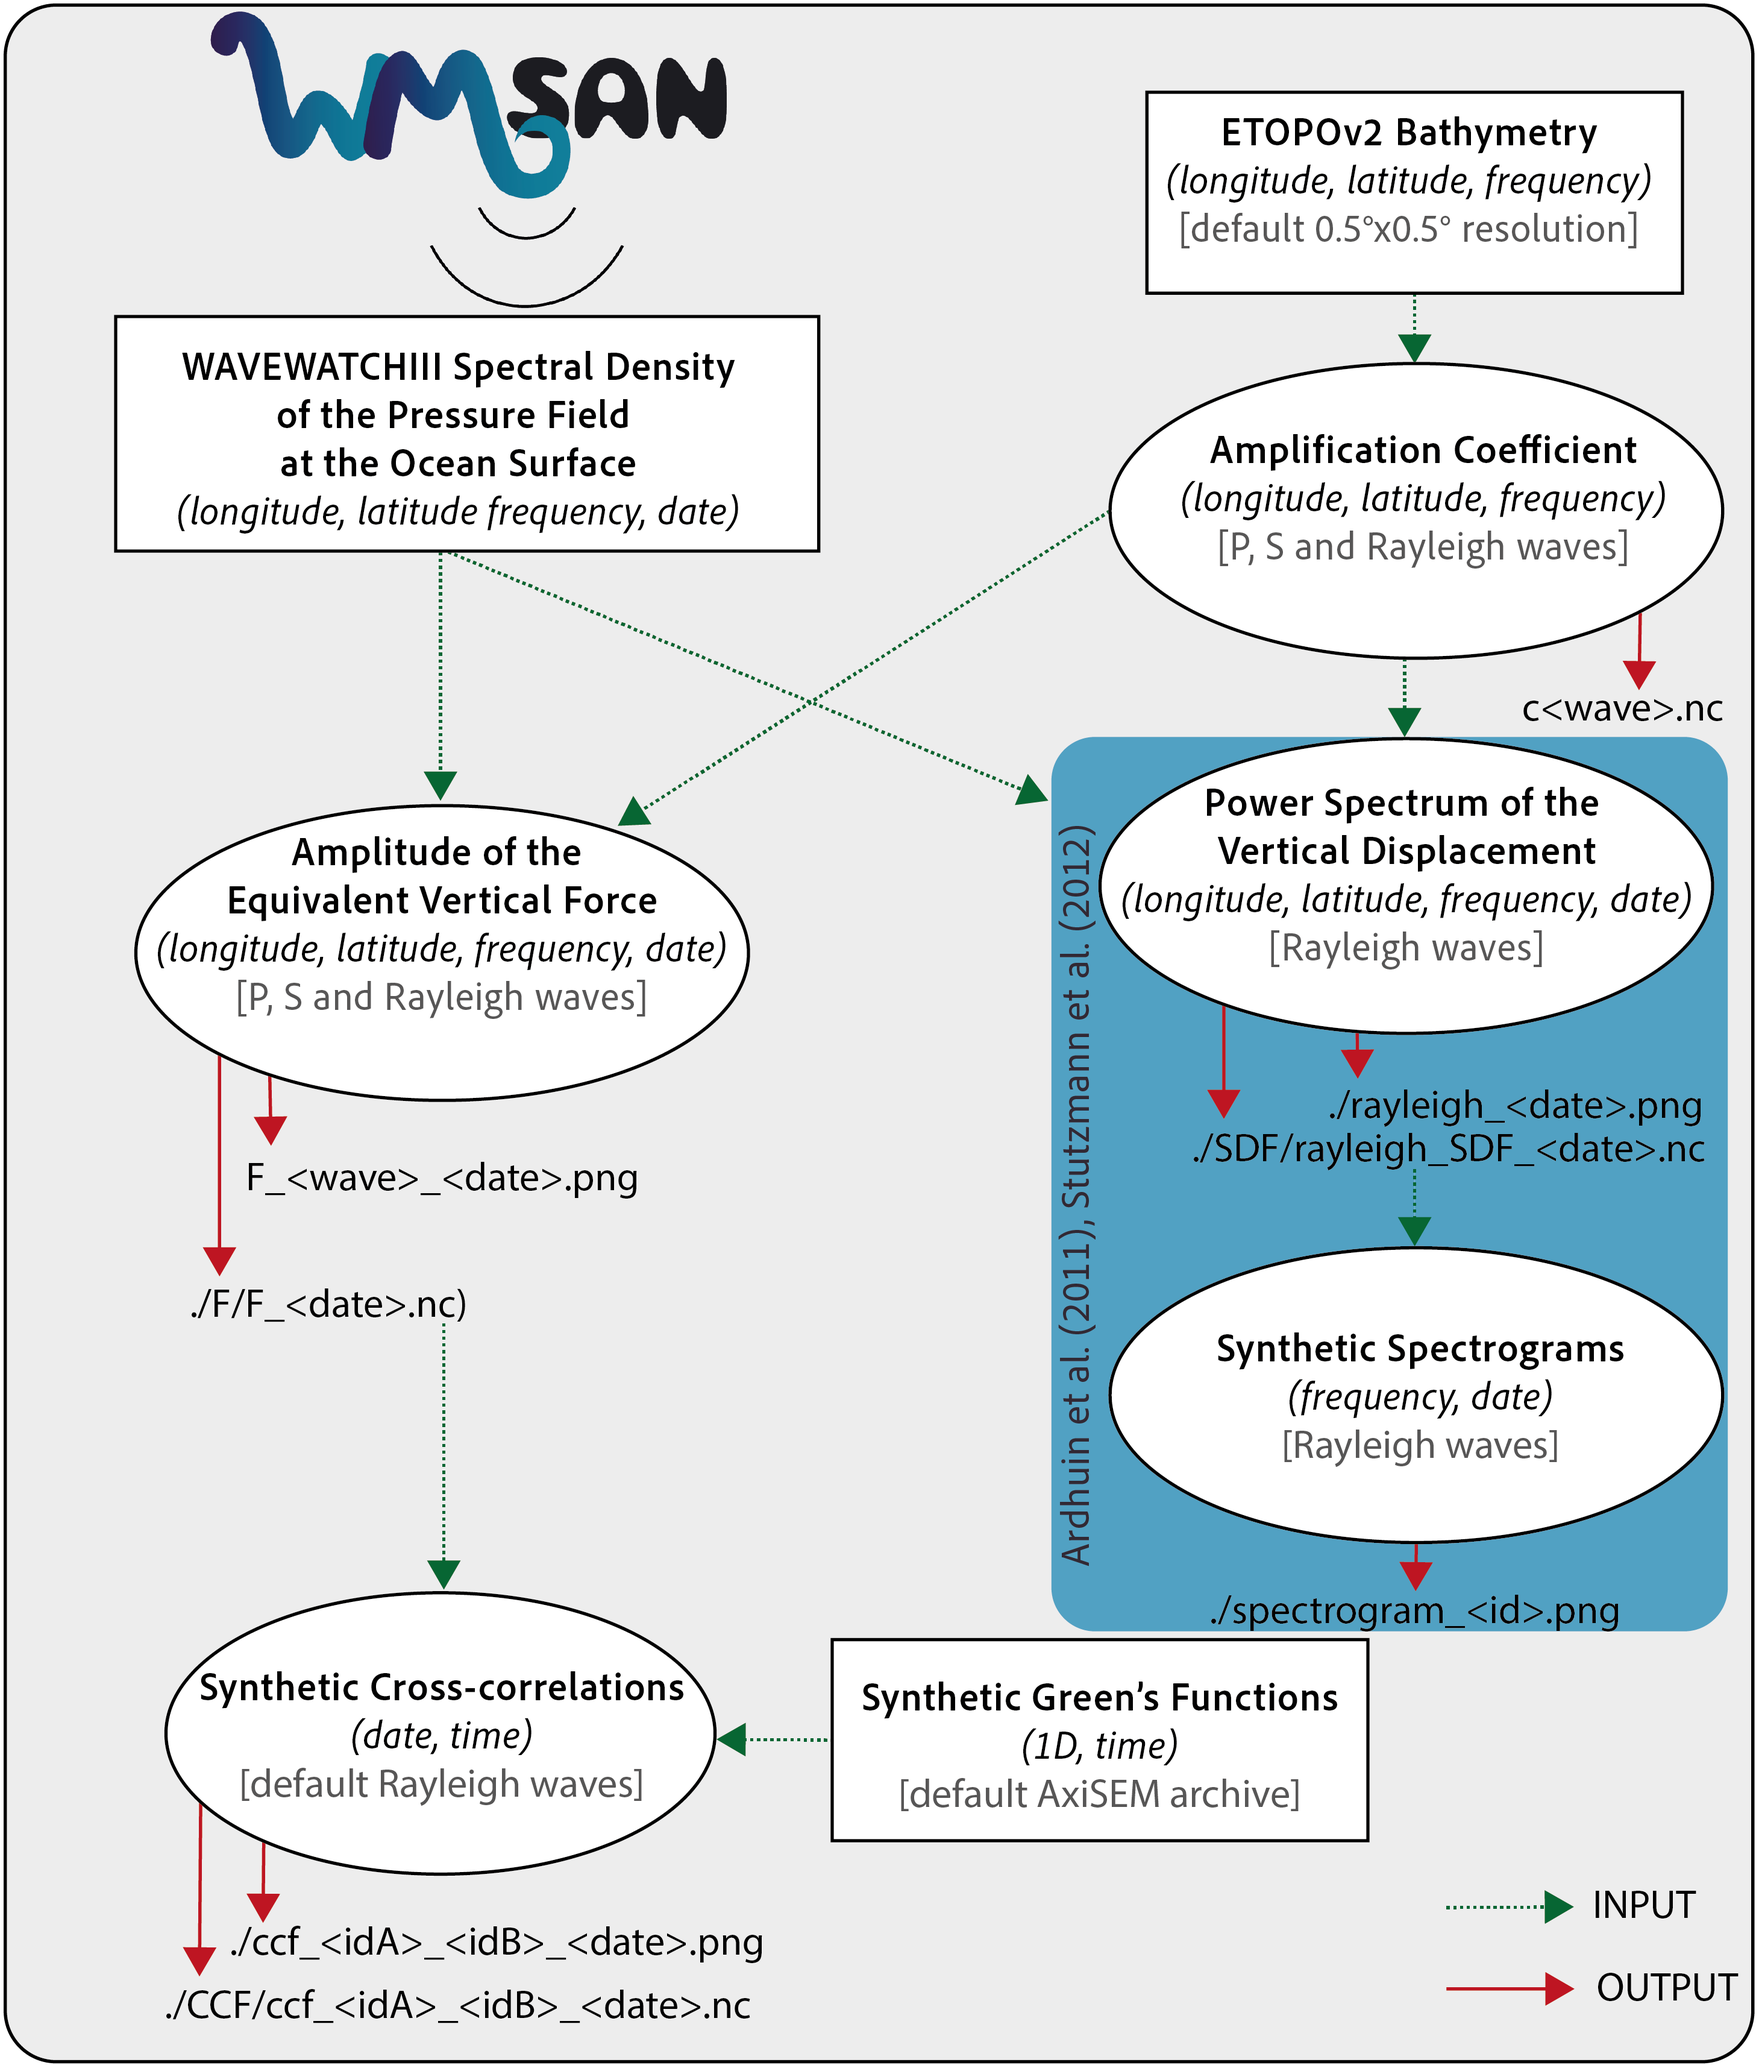
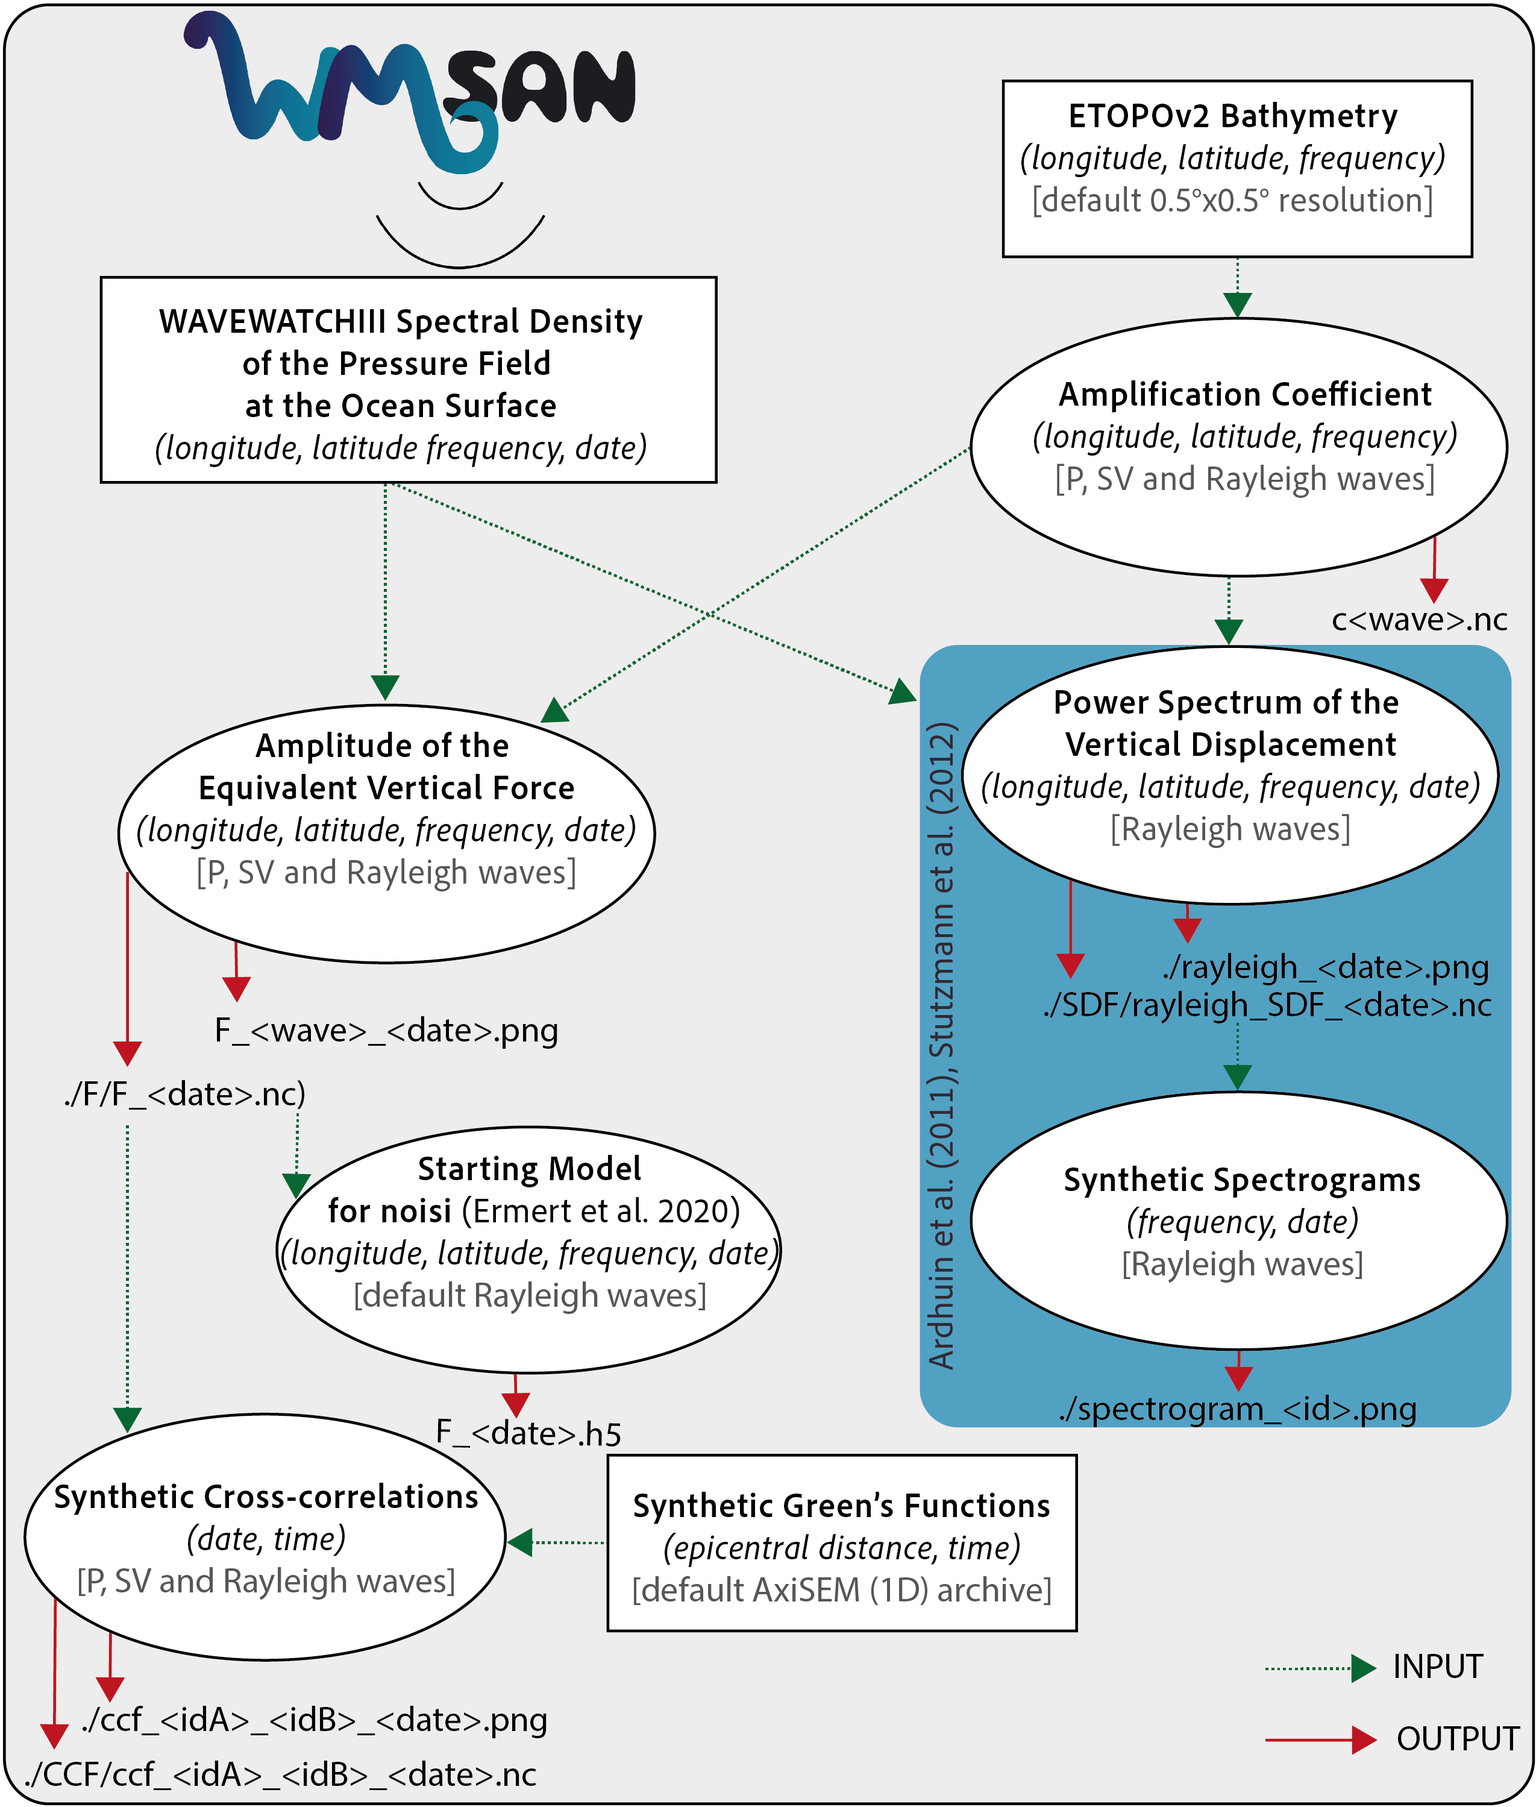
Update documentation (almost finish)
Add references
Add Tutorial summary
Check

On branch docs

diff --git a/documentation/docs/user_guide.md b/documentation/docs/user_guide.md
@@ -1,4 +1,67 @@
-# MathJax Test Page
+# Tutorials
 
-When \(a \ne 0\), there are two solutions to \(ax^2 + bx + c = 0\) and they are
-$$x = {-b \pm \sqrt{b^2-4ac} \over 2a}.$$
+![Table representing the differrent paths to Jupyter Notebooks examples and where to find what you wish to compute.](img/sumup.png) 
+
+Welcome to the tutorial section. Here you will find examples in the form of Jupyter notebooks that you can either download from the [GitLab repository](https://gricad-gitlab.univ-grenoble-alpes.fr/tomasetl/ww3-source-maps/-/issues) or this documentation website.
+
+Please keep the architecture as follow:
+
+    your_wmsan_dir/
+    |-- notebooks/
+    |   └── body_waves/
+    │       ├── amplification_coeff.ipynb
+    │       └── microseismic_sources.ipynb 
+    │   └── rayleigh_waves/
+    │       ├── amplification_coeff.ipynb
+    │       ├── microseismic_sources.ipynb
+    │       ├── spectrograms.ipynb
+    │       ├── rayleigh_source.ipynb
+    │       └── synthetic_CCF.ipynb
+    │       └── wmsan_to_noisi.ipynb
+    │       └── temporal_variations.ipynb
+    |-- data/
+    │   ├── C.nc
+    │   ├── cP.nc
+    │   ├── cS.nc
+    │   ├── longuet_higgins.txt
+    │   ├── stations_pair.txt
+    │   └── ww3.07121700.dpt
+
+Additionnal files can be found on the [GitLab repository](https://gricad-gitlab.univ-grenoble-alpes.fr/tomasetl/ww3-source-maps/-/issues) except for synthetic cross-correlations [AxiSEM](http://seis.earth.ox.ac.uk/axisem/) archive which is hosted on [Zenodo](https://zenodo.org/records/11126562).
+
+
+## Site Effect - Amplification Coefficients
+
+Secondary microseisms generation results from the interaction of oceanic waves of similar periods travelling in opposite directions, see [SANS](https://sans.ethz.ch/science/). When the resulting standing pressure field hits the seafloor interface, seismic waves can be emitted and travelling through the crust. Therefore the bathymetry and frequency content at source location has an impact on observed seismic waves. Site effect or amplification coefficient allow to quantify this transmition to the crust.
+
+[Rayleigh Waves](notebooks/rayleigh_waves/amplification_coeff.ipynb){: .btn}
+[Body Waves](notebooks/body_waves/amplification_coeff.ipynb){: .btn}
+
+## Equivalent Vertical Force - Source Maps
+
+Once the site effect is quantified, let's make source distribution maps based on the WW3 outputs which can be compared to seismic data based source maps (e.g., [SANS](https://sans.ethz.ch/science/), backprojection, ...).
+
+[Rayleigh Waves](notebooks/rayleigh_waves/microseismic_sources.ipynb){: .btn}
+[Body Waves](notebooks/body_waves/microseismic_sources.ipynb){: .btn}
+
+## Temporal Variations
+If you want to see the temporal evolution of the source intensity in a specific area check out this example (dv/v series comparison, clustering occurence, ...).
+
+[Rayleigh Waves](notebooks/rayleigh_waves/temporal_variations.ipynb){: .btn}
+
+## Synthetic Cross-correlation Functions
+To compute synthetic cross-correlations with a WW3 model based source distribution.
+
+[Rayleigh Waves](notebooks/rayleigh_waves/synthetic_CCF.ipynb){: .btn}
+[Body Waves](notebooks/body_waves/synthetic_CCF.ipynb){: .btn}
+
+## WMSAN to noisi
+To use the equivalent vertical force as a starting model for [noisi](https://github.com/lermert/noisi).
+
+[Rayleigh Waves](notebooks/rayleigh_waves/wmsan_to_noisi.ipynb){: .btn}
+
+## Synthetic Spectrograms
+To compute synthetic spectrograms, following an example from [Ardhuin et al. (2011)](https://agupubs.onlinelibrary.wiley.com/doi/full/10.1029/2011JC006952) and using a data comparison from [Stutzmann et al. (2012)](https://academic.oup.com/gji/article/191/2/707/644255).
+
+[Power Spectrum of Vertical Displacement](notebooks/rayleigh_waves/rayleigh_source.ipynb){: .btn}
+[Spectrograms](notebooks/rayleigh_waves/spectrograms.ipynb){: .btn}

diff --git a/documentation/docs/about.md b/documentation/docs/about.md
@@ -2,8 +2,32 @@
 
 ## References
 
-## Change Logs
+- [Ardhuin, F., Stutzmann, E., Schimmel, M., & Mangeney, A. (2011). Ocean wave sources of seismic noise. Journal of Geophysical Research: Oceans, 116(C9).](https://agupubs.onlinelibrary.wiley.com/doi/full/10.1029/2011JC006952)
 
+- [Stutzmann, E., Ardhuin, F., Schimmel, M., Mangeney, A., & Patau, G. (2012). Modelling long-term seismic noise in various environments. Geophysical Journal International, 191(2), 707-722.](https://academic.oup.com/gji/article/191/2/707/644255)
+
+- [Ermert, L., Igel, J., Sager, K., Stutzmann, E., Nissen-Meyer, T., & Fichtner, A. (2020). Introducing noisi: a Python tool for ambient noise cross-correlation modeling and noise source inversion. Solid Earth, 11(4), 1597-1615.](https://se.copernicus.org/articles/11/1597/2020/)
+
+- [Igel, J. K., Bowden, D. C., & Fichtner, A. (2023). SANS: Publicly available daily multi‐scale seismic ambient noise source maps. Journal of Geophysical Research: Solid Earth, 128(1), e2022JB025114.](https://agupubs.onlinelibrary.wiley.com/doi/10.1029/2022JB025114)
+
+- [Longuet-Higgins, M. S. (1950). A theory of the origin of microseisms. Philosophical Transactions of the Royal Society of London. Series A, Mathematical and Physical Sciences, 243(857), 1-35.](https://royalsocietypublishing.org/doi/10.1098/rsta.1950.0012)
+
+- [Gimbert, F., & Tsai, V. C. (2015). Predicting short-period, wind-wave-generated seismic noise in coastal regions. Earth and Planetary Science Letters, 426, 280-292.](https://www.sciencedirect.com/science/article/abs/pii/S0012821X15003738)
+
+- [Gualtieri, L., Stutzmann, É., Farra, V., Capdeville, Y., Schimmel, M., Ardhuin, F., & Morelli, A. (2014). Modelling the ocean site effect on seismic noise body waves. Geophysical Journal International, 197(2), 1096-1106.](https://doi.org/10.1093/gji/ggu042)
+
+- [Boué, P., & Tomasetto, L. (2024). Opportune detections of global P-wave propagation from microseisms interferometry. Comptes Rendus. Géoscience, 356(S4), 1-16.](https://comptes-rendus.academie-sciences.fr/geoscience/articles/10.5802/crgeos.222/)
+
+- [The WAVEWATCH III® Development Group (WW3DG), 2019: User manual and system documentation of WAVEWATCH III® version 6.07. Tech. Note 333, NOAA/NWS/NCEP/MMAB, College Park, MD, USA, 326 pp. + Appendices.](https://www.weather.gov/sti/coastalact_ww3)
+
+- [Zhang, R., Boué, P., Campillo, M., & Ma, J. (2023). Quantifying P-wave secondary microseisms events: a comparison of observed and modelled backprojection. Geophysical Journal International, 234(2), 933-947.](https://doi.org/10.1093/gji/ggad103)
+
+- [Nissen-Meyer, T., van Driel, M., Stähler, S. C., Hosseini, K., Hempel, S., Auer, L., ... & Fournier, A. (2014). AxiSEM: broadband 3-D seismic wavefields in axisymmetric media. Solid Earth, 5(1), 425-445.](https://se.copernicus.org/articles/5/425/2014/)
+
+- [Tomasetto, L., Boué, P., Stehly, L., Ardhuin, F., & Nataf, H. C. (2024). On the stability of mantle‐sensitive P‐wave interference during a secondary microseismic event. Geophysical Research Letters, 51(8), e2023GL108018.](https://agupubs.onlinelibrary.wiley.com/doi/10.1029/2023GL108018)
+
+## Change Logs
+*empty for now*
 ## License
 MIT License
 

diff --git a/documentation/docs/index.md b/documentation/docs/index.md
@@ -3,7 +3,7 @@
 **WMSAN** pronounced [**waam-saan**]
 ## Description
 
-**WMSAN** for **Wave Model Sources of Ambient Noise** is a user-friendly Python package to help seismologists model their observations through maps of ambient noise sources from WAVEWATCHIII hindcast outputs, but also to compute spectrograms (e.g., Ardhuin et al., 2011; Stutzmann et al., 2012) and seismic noise correlations (Ermert et al., 2020). In particular, we provide Python scripts and Jupyter Notebooks to compute maps of secondary microseismic noise sources distribution, synthetic seismic cross-correlations, temporal variations of sources and synthetic seismic spectrograms.
+**WMSAN** for **Wave Model Sources of Ambient Noise** is a user-friendly Python package to help seismologists model their observations through maps of ambient noise sources from [WAVEWATCHIII](https://www.weather.gov/sti/coastalact_ww3) hindcast outputs, but also to synthetic compute spectrograms (e.g., [Ardhuin et al., 2011](https://agupubs.onlinelibrary.wiley.com/doi/full/10.1029/2011JC006952); [Stutzmann et al., 2012](https://academic.oup.com/gji/article/191/2/707/644255)) and seismic noise correlations (e.g., [Ermert et al., 2020](https://se.copernicus.org/articles/11/1597/2020/)). In particular, we provide [Python scripts](api_overview/api_overview.md) and [Jupyter Notebooks](user_guide.md) to compute maps of secondary microseismic noise sources distribution, synthetic seismic cross-correlations, temporal variations of sources and synthetic seismic spectrograms.
 
 ## Project layout
 
@@ -20,6 +20,7 @@
     │       └── synthetics.py
     │       └── wmsan_to_noisi.py
     │       └── temporal_variation.py
+    │       └── synthetic_CCF.ipynb
     │
     |-- notebooks/
     |   └── body_waves/

diff --git a/documentation/docs/getting_started.md b/documentation/docs/getting_started.md
@@ -61,4 +61,5 @@ In the meantime, you can follow the next steps:
 - [ipykernel](https://pypi.org/project/ipykernel/)
 
 ## Where Should I Start ?
-![Table representing the differrent paths to Jupyter Notebooks examples and where to find what you wish to compute.](img/sumup.png) 
+Congratulations ! You successfully installed WMSAN.
+Now feel free to browse the [Tutorial](user_guide.md) for examples. The Pyhton functions details can be found in the [API Overview](api_overview/api_overview.md). 
